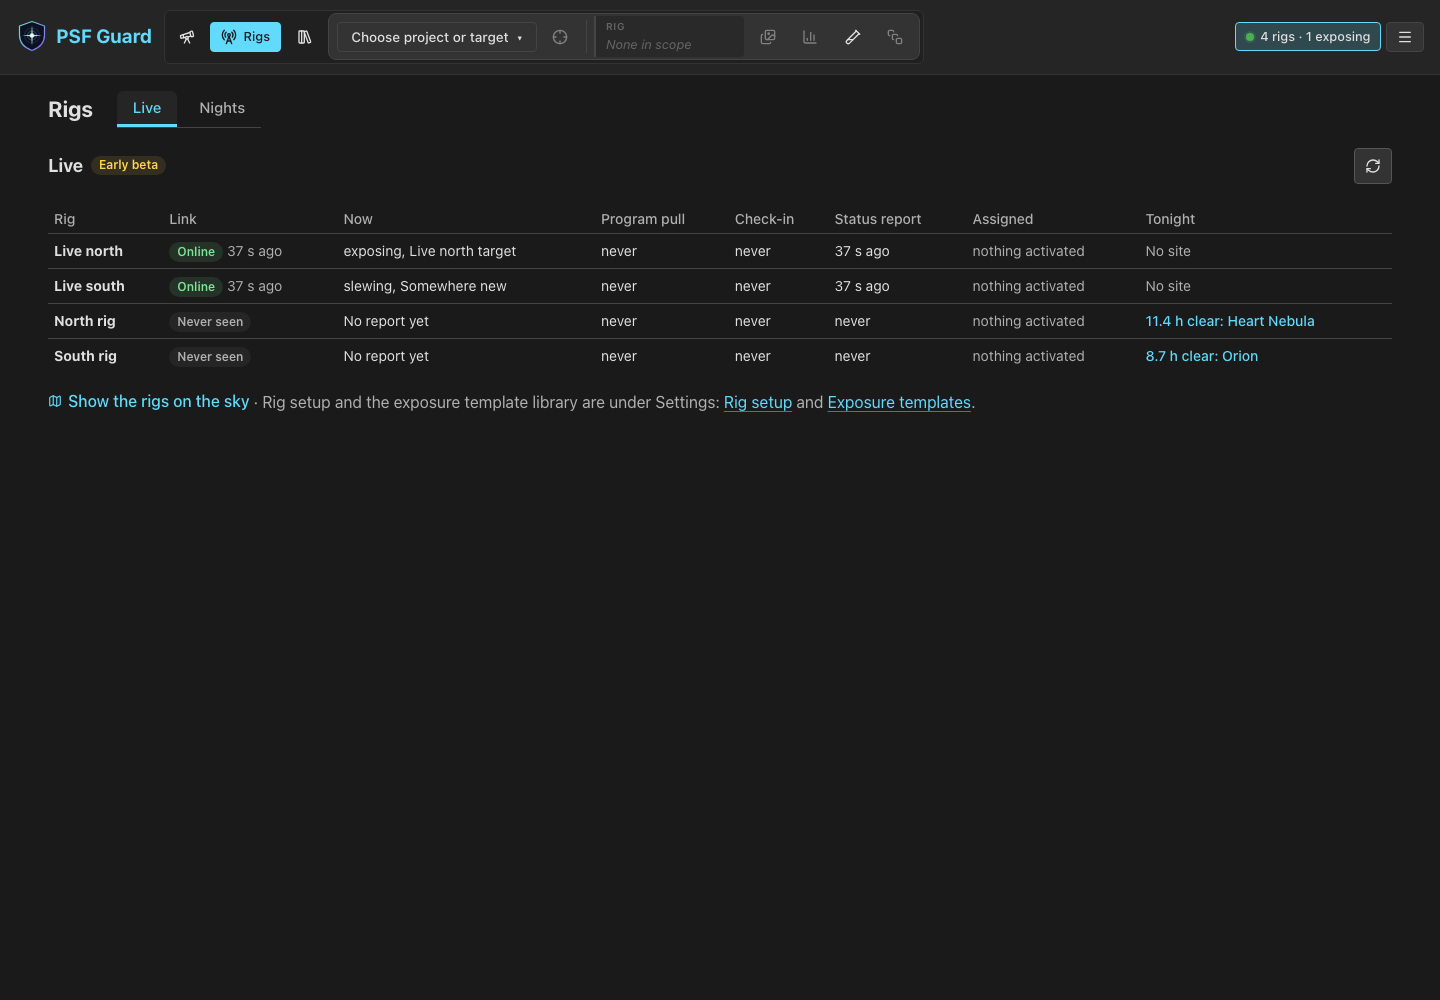
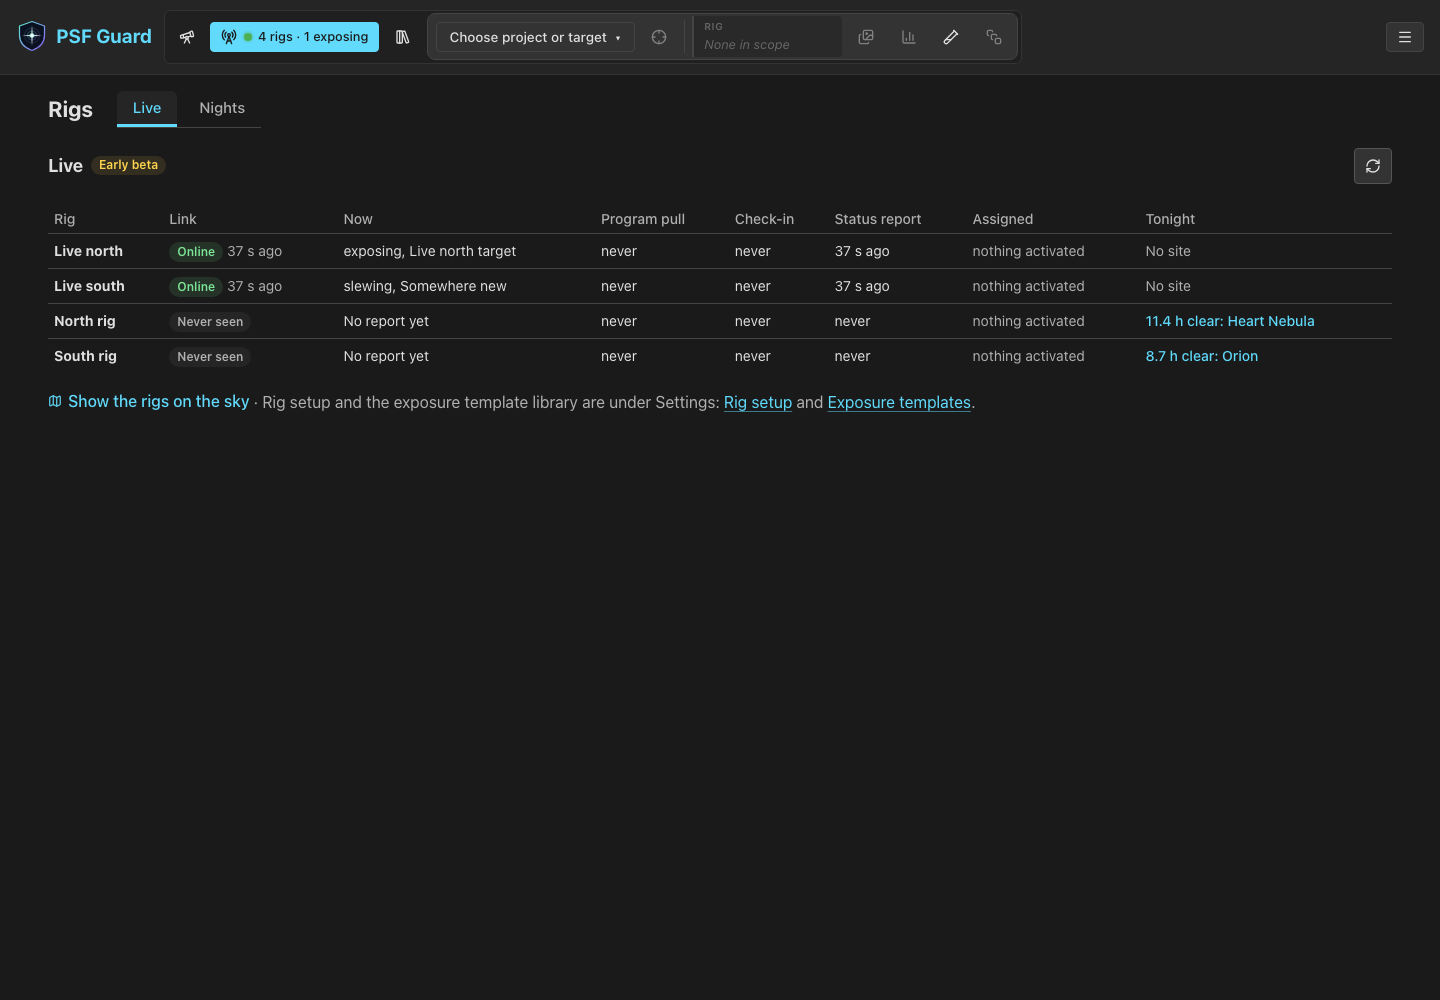
Carry the fleet's status on the Rigs tab and drop the separate chip
The rigs chip and the Rigs tab opened the same page. The tab now shows
what the chip did: a dot and "2 rigs · 1 exposing", red when a rig that
used to talk goes quiet, each rig's state in its tooltip, and the dot
alone on a phone. Before the first rig it is a plain view tab.

Claude-Session: https://claude.ai/code/session_01QRRMrqiH2vB7WUWPTee9mb

diff --git a/static/src/components/__tests__/RigsTab.test.tsx b/static/src/components/__tests__/RigsTab.test.tsx
@@ -5,7 +5,7 @@ import { MemoryRouter, useLocation } from 'react-router-dom';
 import { http, HttpResponse } from 'msw';
 import { describe, expect, it, vi } from 'vitest';
 import { server } from '../../test/msw-server';
-import LiveChip from '../header/LiveChip';
+import RigsTab from '../header/RigsTab';
 import { liveSummary } from '../header/liveSummary';
 import { withoutPlanningParams } from '../../hooks/useUrlState';
 import type { DirectorRigStatusView } from '../../api/directorTypes';
@@ -24,13 +24,14 @@ function Location() {
   return <output data-testid="location">{location.pathname}{location.search}</output>;
 }
 
-function mount(statuses: DirectorRigStatusView[], status: unknown = enabled, route = '/') {
+function mount(statuses: DirectorRigStatusView[], status: unknown = enabled, route = '/', current = false) {
   const client = new QueryClient({ defaultOptions: { queries: { retry: false, gcTime: 0 } } });
   const statusCall = vi.fn(() => HttpResponse.json(ok(status)));
   const rigsCall = vi.fn(() => HttpResponse.json(ok(statuses)));
   server.use(http.get('/api/director/v1/status', statusCall), http.get('/api/director/v1/rigs/status', rigsCall));
   const Wrapper = ({ children }: { children: ReactNode }) => <QueryClientProvider client={client}><MemoryRouter initialEntries={[route]}>{children}<Location /></MemoryRouter></QueryClientProvider>;
-  return { ...render(<LiveChip />, { wrapper: Wrapper }), statusCall, rigsCall };
+  const opened = vi.fn();
+  return { ...render(<RigsTab current={current} onClick={opened} />, { wrapper: Wrapper }), statusCall, rigsCall, opened };
 }
 
 describe('Live chip', () => {
@@ -45,28 +46,34 @@ describe('Live chip', () => {
     expect(liveSummary([leased], now).label).toBe('1 rig · 1 online');
   });
 
-  it('shows the fleet from any view and opens the Rigs page on Live, keeping the scope', async () => {
-    mount([view('C925', 'online', 'exposing'), view('RC51', 'offline', null)], enabled, '/grid?db=c925&project=3&plan=abc');
-    const chip = await screen.findByRole('button', { name: 'Live rigs: 2 rigs · 1 exposing' });
-    expect(chip).toHaveClass('is-alert');
-    fireEvent.click(chip);
-    expect(screen.getByTestId('location')).toHaveTextContent('/rigs?db=c925&project=3');
-    expect(screen.getByRole('button', { name: 'Live rigs: 2 rigs · 1 exposing' })).toHaveAttribute('aria-current', 'page');
+  it('carries the fleet on the Rigs tab, red when a rig went quiet', async () => {
+    const { opened } = mount([view('C925', 'online', 'exposing'), view('RC51', 'offline', null)], enabled, '/grid?db=c925');
+    const tab = await screen.findByRole('button', { name: 'Rigs: 2 rigs · 1 exposing' });
+    expect(tab).toHaveClass('is-alert');
+    expect(tab).toHaveTextContent('2 rigs · 1 exposing');
+    expect(tab).toHaveAttribute('title', expect.stringContaining('C925: exposing'));
+    expect(tab).not.toHaveAttribute('aria-current');
+    fireEvent.click(tab);
+    expect(opened).toHaveBeenCalledOnce();
     // The Sky's rig markers and the Rigs page's tab and night stay behind
     // when another view opens.
     expect(withoutPlanningParams('db=c925&live=1&rigsTab=nights&nightRig=r&night=2026-11-03').toString()).toBe('db=c925');
   });
 
-  it('stays out of the header without rigs, and never asks for rigs without Director', async () => {
+  it('marks the Rigs page as the current view', async () => {
+    mount([view('C925', 'online', 'idle')], enabled, '/rigs', true);
+    expect(await screen.findByRole('button', { name: 'Rigs: 1 rig · 1 online' })).toHaveAttribute('aria-current', 'page');
+  });
+
+  it('is a plain tab before the first rig, and stays out of the header without Director', async () => {
     const empty = mount([]);
     await waitFor(() => expect(empty.rigsCall).toHaveBeenCalled());
-    await new Promise(resolve => setTimeout(resolve, 0));
-    expect(screen.queryByRole('button', { name: /Live rigs/ })).not.toBeInTheDocument();
+    expect(await screen.findByRole('button', { name: 'Rigs' })).not.toHaveClass('is-alert');
     empty.unmount();
     const off = mount([view('C925', 'online', 'exposing')], { ...enabled, enabled: false });
     await waitFor(() => expect(off.statusCall).toHaveBeenCalled());
     await new Promise(resolve => setTimeout(resolve, 20));
     expect(off.rigsCall).not.toHaveBeenCalled();
-    expect(screen.queryByRole('button', { name: /Live rigs/ })).not.toBeInTheDocument();
+    expect(screen.queryByRole('button', { name: /^Rigs/ })).not.toBeInTheDocument();
   });
 });

diff --git a/static/src/App.tsx b/static/src/App.tsx
@@ -6,12 +6,12 @@ import ProjectTargetSelector from './components/ProjectTargetSelector';
 import RigTargetSelect from './components/header/RigTargetSelect';
 import { useCurrentPlan } from './components/header/useCurrentPlan';
 import ActivityChip from './components/header/ActivityChip';
-import LiveChip from './components/header/LiveChip';
+import RigsTab from './components/header/RigsTab';
 import { useDesktopZoom, type DesktopZoom } from './hooks/useDesktopZoom';
 import { useDesktopFullscreen } from './hooks/useDesktopFullscreen';
 import HeaderMenu from './components/header/HeaderMenu';
 import ViewTab from './components/header/ViewTab';
-import { ChartColumn, Crosshair, Images, LibraryBig, RadioTower, SquareStack, Telescope, TestTubeDiagonal } from 'lucide-react';
+import { ChartColumn, Crosshair, Images, LibraryBig, SquareStack, Telescope, TestTubeDiagonal } from 'lucide-react';
 import { useHeaderFit } from './components/header/useHeaderFit';
 import { useTuckAway } from './components/header/useTuckAway';
 import KeyboardShortcutHelp from './components/KeyboardShortcutHelp';
@@ -207,16 +207,9 @@ function AppContent({ zoom }: { zoom?: DesktopZoom }) {
             current={isOnSky}
             onClick={() => navigate(toScoped('/sky'))}
           />
-          {/* Every rig, live and over the coming nights; like the Sky, it
-              follows no scope. */}
-          {plan.enabled && (
-            <ViewTab
-              label="Rigs"
-              icon={RadioTower}
-              current={isOnRigs}
-              onClick={() => navigate(toScoped('/rigs'))}
-            />
-          )}
+          {/* Every rig, live and over the coming nights, with the fleet's
+              status on the tab; like the Sky, it follows no scope. */}
+          <RigsTab current={isOnRigs} onClick={() => navigate(toScoped('/rigs'))} />
           <ViewTab
             label="Library"
             icon={LibraryBig}
@@ -282,7 +275,6 @@ function AppContent({ zoom }: { zoom?: DesktopZoom }) {
           {/* Background work on every database, kept to one small chip;
               hover or click opens the queue. */}
           <ActivityChip />
-          <LiveChip />
           <HeaderMenu
             zoom={zoom}
             onSettings={access.canWrite ? () => setShowSettings(true) : undefined}

diff --git a/static/src/components/header/RigsTab.tsx b/static/src/components/header/RigsTab.tsx
@@ -1,0 +1,48 @@
+import { useQuery } from '@tanstack/react-query';
+import { RadioTower } from 'lucide-react';
+import { apiClient } from '../../api/client';
+import { useDirectorStatus } from '../../hooks/useDirectorStatus';
+import { liveSummary } from './liveSummary';
+import { retryWhenBusy } from '../director/retry';
+import './header.css';
+import { useDirectorClock } from '../../hooks/useDirectorClock';
+
+interface RigsTabProps {
+  current: boolean;
+  onClick: () => void;
+}
+
+/**
+ * The Rigs view in the header, carrying the fleet's status: how many rigs,
+ * how many exposing, red when one that used to talk has gone quiet, and
+ * each rig's state in the tooltip. Before the first rig it is a plain view
+ * tab; with Director off it stays out of the header.
+ */
+export default function RigsTab({ current, onClick }: RigsTabProps) {
+  const director = useDirectorStatus();
+  const enabled = !!director.data?.enabled && director.data.protocol_version === 1 && !!director.data.instance_id;
+  const statuses = useQuery({ queryKey: ['directorRigStatuses'], queryFn: apiClient.getDirectorRigStatuses, enabled, retry: retryWhenBusy, retryDelay: 1200, refetchInterval: 15_000, refetchOnWindowFocus: true });
+  const now = useDirectorClock();
+  if (!enabled) return null;
+  const rows = statuses.data ?? [];
+  const summary = rows.length > 0 ? liveSummary(rows, now) : null;
+  return (
+    <button
+      type="button"
+      onClick={onClick}
+      className={`header-button view-tab rigs-tab${summary?.alert ? ' is-alert' : ''}`}
+      data-view="rigs"
+      aria-current={current ? 'page' : undefined}
+      aria-label={summary ? `Rigs: ${summary.label}` : 'Rigs'}
+      title={summary?.title}
+    >
+      <RadioTower size={16} aria-hidden="true" />
+      {summary
+        ? <>
+            <span className="rigs-tab-dot" aria-hidden="true" />
+            <span className="rigs-tab-status" aria-hidden="true">{summary.label}</span>
+          </>
+        : <span className="view-tab-name" aria-hidden="true">Rigs</span>}
+    </button>
+  );
+}

diff --git a/static/src/components/header/header.css b/static/src/components/header/header.css
@@ -86,13 +86,14 @@
   cursor: not-allowed;
 }
 
-.live-chip {
-  display: inline-flex;
-  align-items: center;
+/* The Rigs view carries the fleet's status: a dot, green while the rigs
+   talk and red once one has gone quiet, and the count beside it. */
+.rigs-tab {
   gap: 0.4rem;
 }
 
-.live-chip-dot {
+.rigs-tab-dot {
+  flex: none;
   width: 8px;
   height: 8px;
   border-radius: 50%;
@@ -100,19 +101,18 @@
   box-shadow: 0 0 0 2px var(--color-success-alpha-20);
 }
 
-.live-chip.is-alert {
+.rigs-tab-status {
+  white-space: nowrap;
+}
+
+.rigs-tab.is-alert {
   border-color: var(--color-error);
   color: var(--color-error);
 }
 
-.live-chip.is-alert .live-chip-dot {
+.rigs-tab.is-alert .rigs-tab-dot {
   background: var(--color-error);
   box-shadow: 0 0 0 2px var(--color-error-alpha-20);
-}
-
-.live-chip[aria-current='page'] {
-  border-color: var(--state-on-border);
-  background: var(--state-on-bg);
 }
 
 /* Background work: a small chip with the overall progress and the job
@@ -596,7 +596,8 @@ div.activity-error {
     max-width: none;
   }
 
-  .app-header .view-tab[data-view='sky'] {
+  .app-header .view-tab[data-view='sky'],
+  .app-header .view-tab[data-view='rigs'] {
     order: 2;
   }
 
@@ -637,8 +638,9 @@ div.activity-error {
     height: 32px;
   }
 
-  /* The percent says how running work goes; only how many wait shows. */
-  .live-chip .utility-label,
+  /* The percent says how running work goes; only how many wait shows.
+     The Rigs tab keeps its dot; its count is in the tooltip. */
+  .rigs-tab .rigs-tab-status,
   .activity-chip .activity-count[data-job-state='running'] {
     display: none;
   }
@@ -664,9 +666,6 @@ div.activity-error {
     width: auto;
   }
 
-  .live-chip {
-    padding: 0.38rem 0.5rem;
-  }
 }
 
 /* Settings, shortcuts, server information and sign out, behind one button

diff --git a/static/e2e-director/live.spec.ts b/static/e2e-director/live.spec.ts
@@ -5,7 +5,7 @@ import { mkdtempSync } from 'node:fs';
 import path from 'node:path';
 import { applyRealSchema } from '../e2e/fixtures/sync';
 
-test('the Live chip opens the Rigs page, which shows each rig on the sky where it points', async ({ page, request }, testInfo) => {
+test('the Rigs tab carries the fleet, opens Live, and shows each rig on the sky where it points', async ({ page, request }, testInfo) => {
   test.setTimeout(60_000);
   const errors: string[] = [];
   page.on('pageerror', error => errors.push(error.message));
@@ -44,7 +44,7 @@ test('the Live chip opens the Rigs page, which shows each rig on the sky where i
 
     await page.setViewportSize({ width: 1440, height: 1000 });
     await page.goto('/#/?db=parked-catalog');
-    const chip = page.getByRole('button', { name: 'Live rigs: 2 rigs · 1 exposing' });
+    const chip = page.getByRole('button', { name: 'Rigs: 2 rigs · 1 exposing' });
     await expect(chip).toBeVisible();
     await chip.click();
     await expect(page).toHaveURL(/#\/rigs\?db=parked-catalog$/);

diff --git a/static/e2e-director/management.spec.ts b/static/e2e-director/management.spec.ts
@@ -77,7 +77,7 @@ test('a disabled Director has no navigation entry or editable records', async ({
   await page.goto('/#/plan?plan=anything');
   await expect(page.getByText('Plans are unavailable on this server.')).toBeVisible();
   await expect(page.getByRole('navigation', { name: 'Views' }).getByRole('button', { name: 'Planning' })).toHaveCount(0);
-  await expect(page.getByRole('button', { name: /^Live rigs/ })).toHaveCount(0);
+  await expect(page.getByRole('button', { name: /^Rigs/ })).toHaveCount(0);
   await expect(page.getByRole('button', { name: /New plan|New project|New site|New rig/ })).toHaveCount(0);
   // The Library has no Planning section either.
   await page.goto('/#/');

diff --git a/static/src/App.css b/static/src/App.css
@@ -890,18 +890,6 @@
     display: none;
   }
 
-  .utility-label {
-    position: absolute;
-    width: 1px;
-    height: 1px;
-    padding: 0;
-    margin: -1px;
-    overflow: hidden;
-    clip: rect(0, 0, 0, 0);
-    white-space: nowrap;
-    border: 0;
-  }
-
   .utility-button {
     width: 32px;
     height: 32px;

diff --git a/docs/DIRECTOR.md b/docs/DIRECTOR.md
@@ -447,11 +447,11 @@ over the database and target, set apart from the buttons since there is
 nothing to choose. Used on
 a workspace, the picker opens the chosen project's workspace; it also lists
 plans no database takes yet, which open straight into theirs. Every view
-button shows the page you are on the same way, filled. Beside the jobs slot a
-**Live** chip counts the fleet, `2 rigs · 1 exposing`, turns red when a rig
-that used to talk has gone quiet, and opens **Rigs** on its **Live** tab from
-any view. **Rigs**, beside **Sky** in the header, holds every rig in one
-place: **Live**, the table of what each rig is doing and plans tonight, and
+button shows the page you are on the same way, filled. **Rigs**, beside
+**Sky**, carries the fleet's status: a dot and `2 rigs · 1 exposing`, red
+when a rig that used to talk has gone quiet, with each rig's state in its
+tooltip (on a phone, the dot alone). It opens the **Rigs** page on its
+**Live** tab from any view. The page holds every rig in one place: **Live**, the table of what each rig is doing and plans tonight, and
 **[Nights](#nights)**, what each would shoot over the coming nights. **Show
 the rigs on the sky** turns on the Sky's **Live** view: each reporting rig
 drawn on the coverage map where it points now, with a list of the rigs

diff --git a/docs/releases/unreleased.md b/docs/releases/unreleased.md
@@ -8,8 +8,9 @@
 
 - **Rigs** (early beta), a new view beside **Sky**, holds every rig in one
   place. Its **Live** tab is the Live table, which used to sit under the
-  Sky's map; the header's rigs chip now opens it, and the Sky's **Live**
-  still draws each rig where it points. Its **Nights** tab shows every rig
+  Sky's map. **Rigs** in the header opens it and shows the fleet's status,
+  which the separate rigs chip used to show. The Sky's **Live** still draws
+  each rig where it points. Its **Nights** tab shows every rig
   across the coming nights: the clear dark hours, the Moon, and the plans
   each rig would shoot. Choose a night to see its schedule, a prediction of
   what Target Scheduler will shoot there and why it picks each target, or

diff --git a/docs/design/director.md b/docs/design/director.md
@@ -4747,8 +4747,9 @@ should say so instead of hiding it:
   The Library's family rows and the Workspace's rig list were to show their
   slice of the same status inline; that is not built yet.
   *Superseded, November 2026:* the table moved to a **Rigs** page with
-  **Live** and **Nights** tabs ([night plans](night-plans.md)), which the
-  chip opens. The Sky keeps the rigs on its map.
+  **Live** and **Nights** tabs ([night plans](night-plans.md)). Its header
+  tab carries the chip's fleet status, and the chip is gone. The Sky keeps
+  the rigs on its map.
 - **Rig setup** and **Exposure templates** move under Settings. They are
   configuration, not daily work.
 

diff --git a/docs/SKY_COVERAGE.md b/docs/SKY_COVERAGE.md
@@ -109,7 +109,7 @@ rigs out. A list beside the map shows each rig, whether it is
 online, and what it says it is doing; choosing one turns the map to it and
 comes in close. The full Live table, and each rig's plans for tonight and
 the coming nights, are on the Rigs page, which the list links to and the
-header's rigs chip opens. A rig is
+header's **Rigs** opens. A rig is
 placed from the mount position its plugin reports, or failing that at its
 target; see the status payload in [DIRECTOR.md](DIRECTOR.md).
 The choice lives in the URL (`live=1`).

diff --git a/docs/design/night-plans.md b/docs/design/night-plans.md
@@ -647,7 +647,8 @@ refused.
 
 - **Nights:**
   - A tab of the **Rigs** page, beside **Live**. Both are tables of rigs, so
-    they share one page, which the header's rigs chip opens on Live; the
+    they share one page, which the header's Rigs tab opens on Live. That
+    tab carries the fleet's status the separate rigs chip used to show; the
     Sky keeps the rigs on its map. Live's **Tonight** column opens tonight
     on Nights.
   - Rigs are rows and nights are columns, for all rigs or a chosen set,
